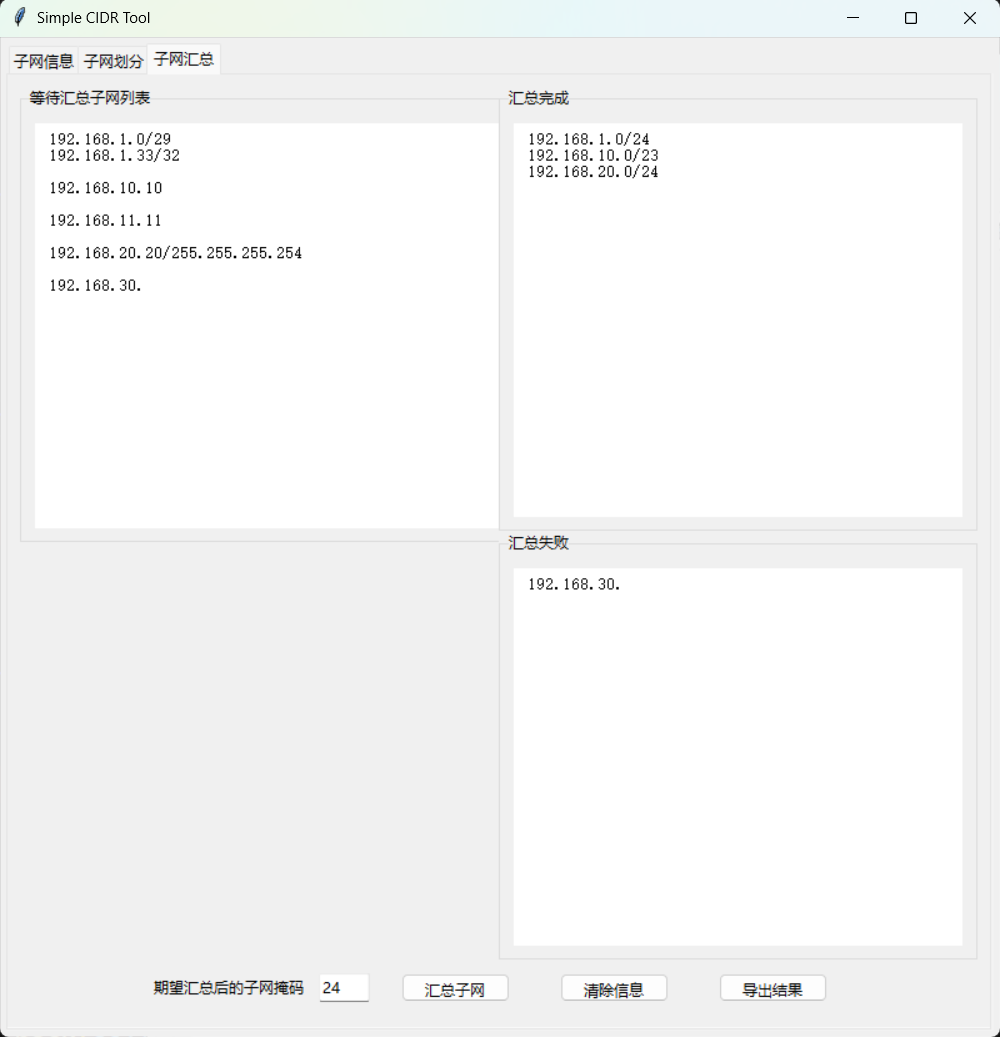
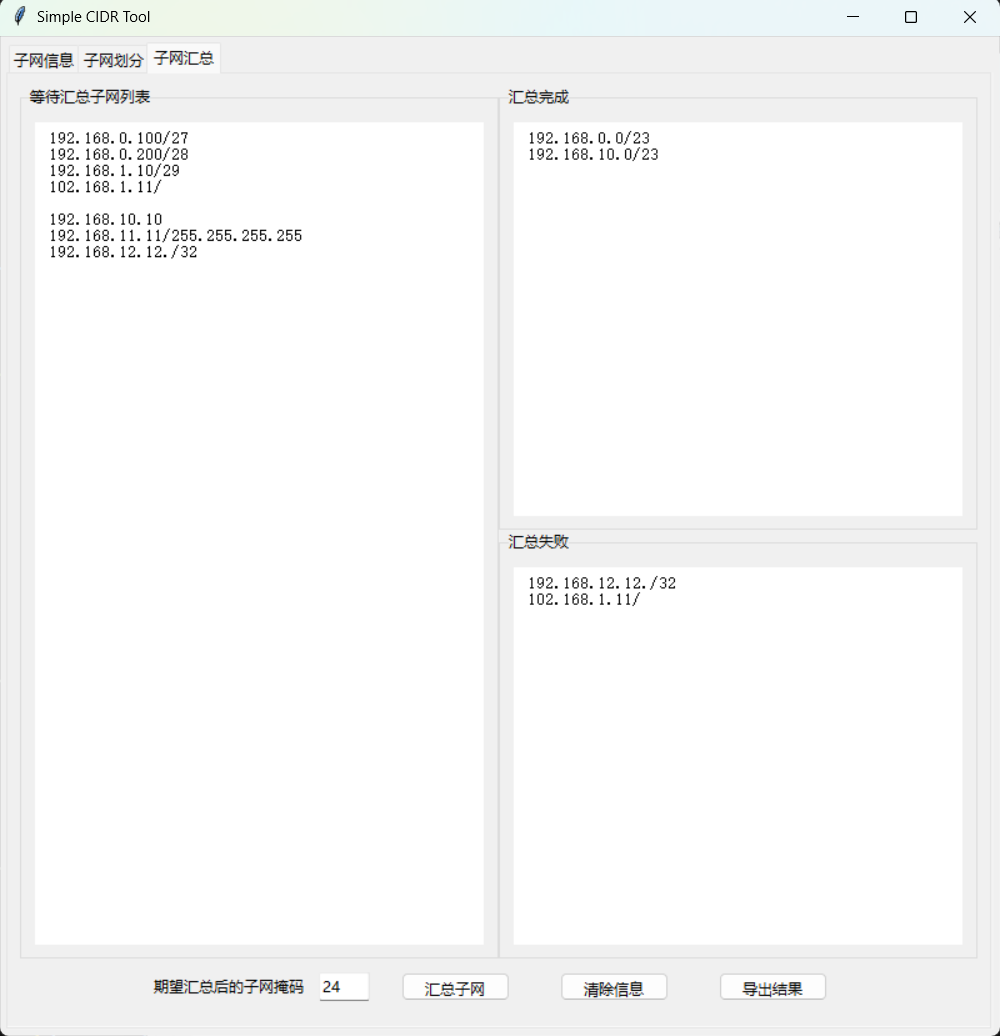
更新<子网汇总>页面

diff --git a/Simple_CIDR_Tool.py b/Simple_CIDR_Tool.py
@@ -490,21 +490,20 @@ class Page(Event):
 
         upper_left_frame = self.create_Frame_with_grid(
             frame=upper_frame, row=0, column=0)
-        upper_right_frame = self.create_Frame_with_grid(
-            frame=upper_frame, row=0, column=1)
 
         # 上面左列的 Frame 内容
         # 等待汇总子网列表
-        # pending_list_frame = self.create_LabelFrame_with_pack(frame=upper_left_frame, text="等待汇总子网列表", expand=True)
         pending_list_frame = self.create_LabelFrame_with_grid(
-            frame=upper_left_frame, text="等待汇总子网列表", row=0, column=0)
-        # pending_list_frame.rowconfigure(0, weight=1)
-        # pending_list_frame.columnconfigure(0, weight=1)
+            frame=upper_left_frame, text="等待汇总子网列表", row=0, column=0, sticky="nsew", row_weight=1, column_weight=1)
+        upper_left_frame.rowconfigure(0, weight=1)
+        upper_left_frame.columnconfigure(0, weight=1)
         self.pending_text = self.create_Text_with_pack(
             frame=pending_list_frame, state='normal')
 
         # 上面右列的 Frame 内容
         # 汇总完成和汇总失败的 LabelFrame
+        upper_right_frame = self.create_Frame_with_grid(
+            frame=upper_frame, row=0, column=1)
         upper_right_frame.rowconfigure(0, weight=3)
         upper_right_frame.rowconfigure(1, weight=7)
         upper_right_frame.columnconfigure(0, weight=1)
